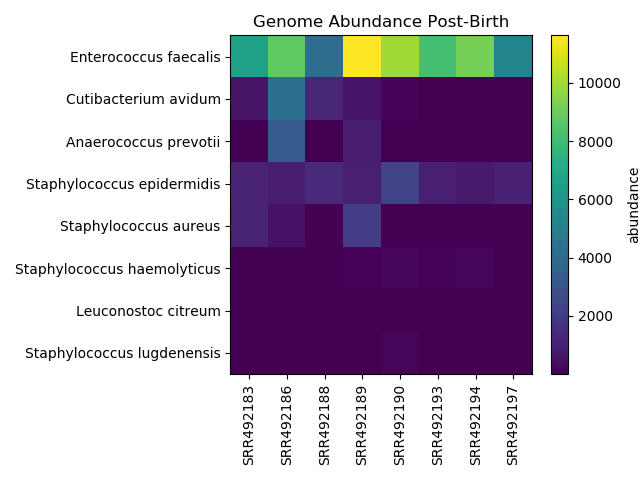
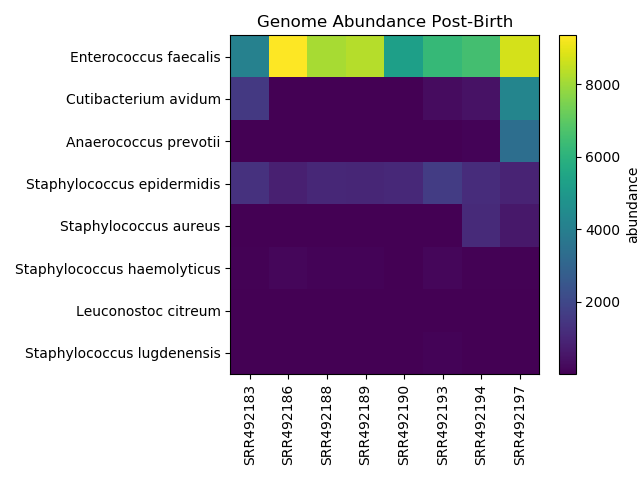
Correct heatmap code

diff --git a/week13_lab/scripts/heatmapper.py b/week13_lab/scripts/heatmapper.py
@@ -27,7 +27,7 @@ def hierch_clustering( data_df_oi, labels ):
     flipped = np.transpose( data_df_oi.values )
     linkx, linky = linkage( data_df_oi.values, method='average' ), linkage( flipped, method='average' )
     leavesx, leavesy = leaves_list( linkx ), leaves_list( linky )
-    transformed = data_df_oi.values[ leavesx,: ][ :,leavesy]
+    transformed = data_df_oi.values[ leavesx,: ]
     labels_tr = np.array( labels )[leavesx]
     return transformed, labels_tr, linky, leavesy
     
@@ -47,3 +47,4 @@ tr, tr_genome_labels, linky, leavesy = hierch_clustering( data, genomes )
 data_tr = pd.DataFrame( tr, columns=data.columns, index=tr_genome_labels )[['SRR492183', 'SRR492186', 'SRR492188', 'SRR492189', 'SRR492190', 'SRR492193', 'SRR492194', 'SRR492197']]
 stage_labels = data_tr.columns
 plot_heatmap( data_tr, tr_genome_labels, stage_labels  )
+    
